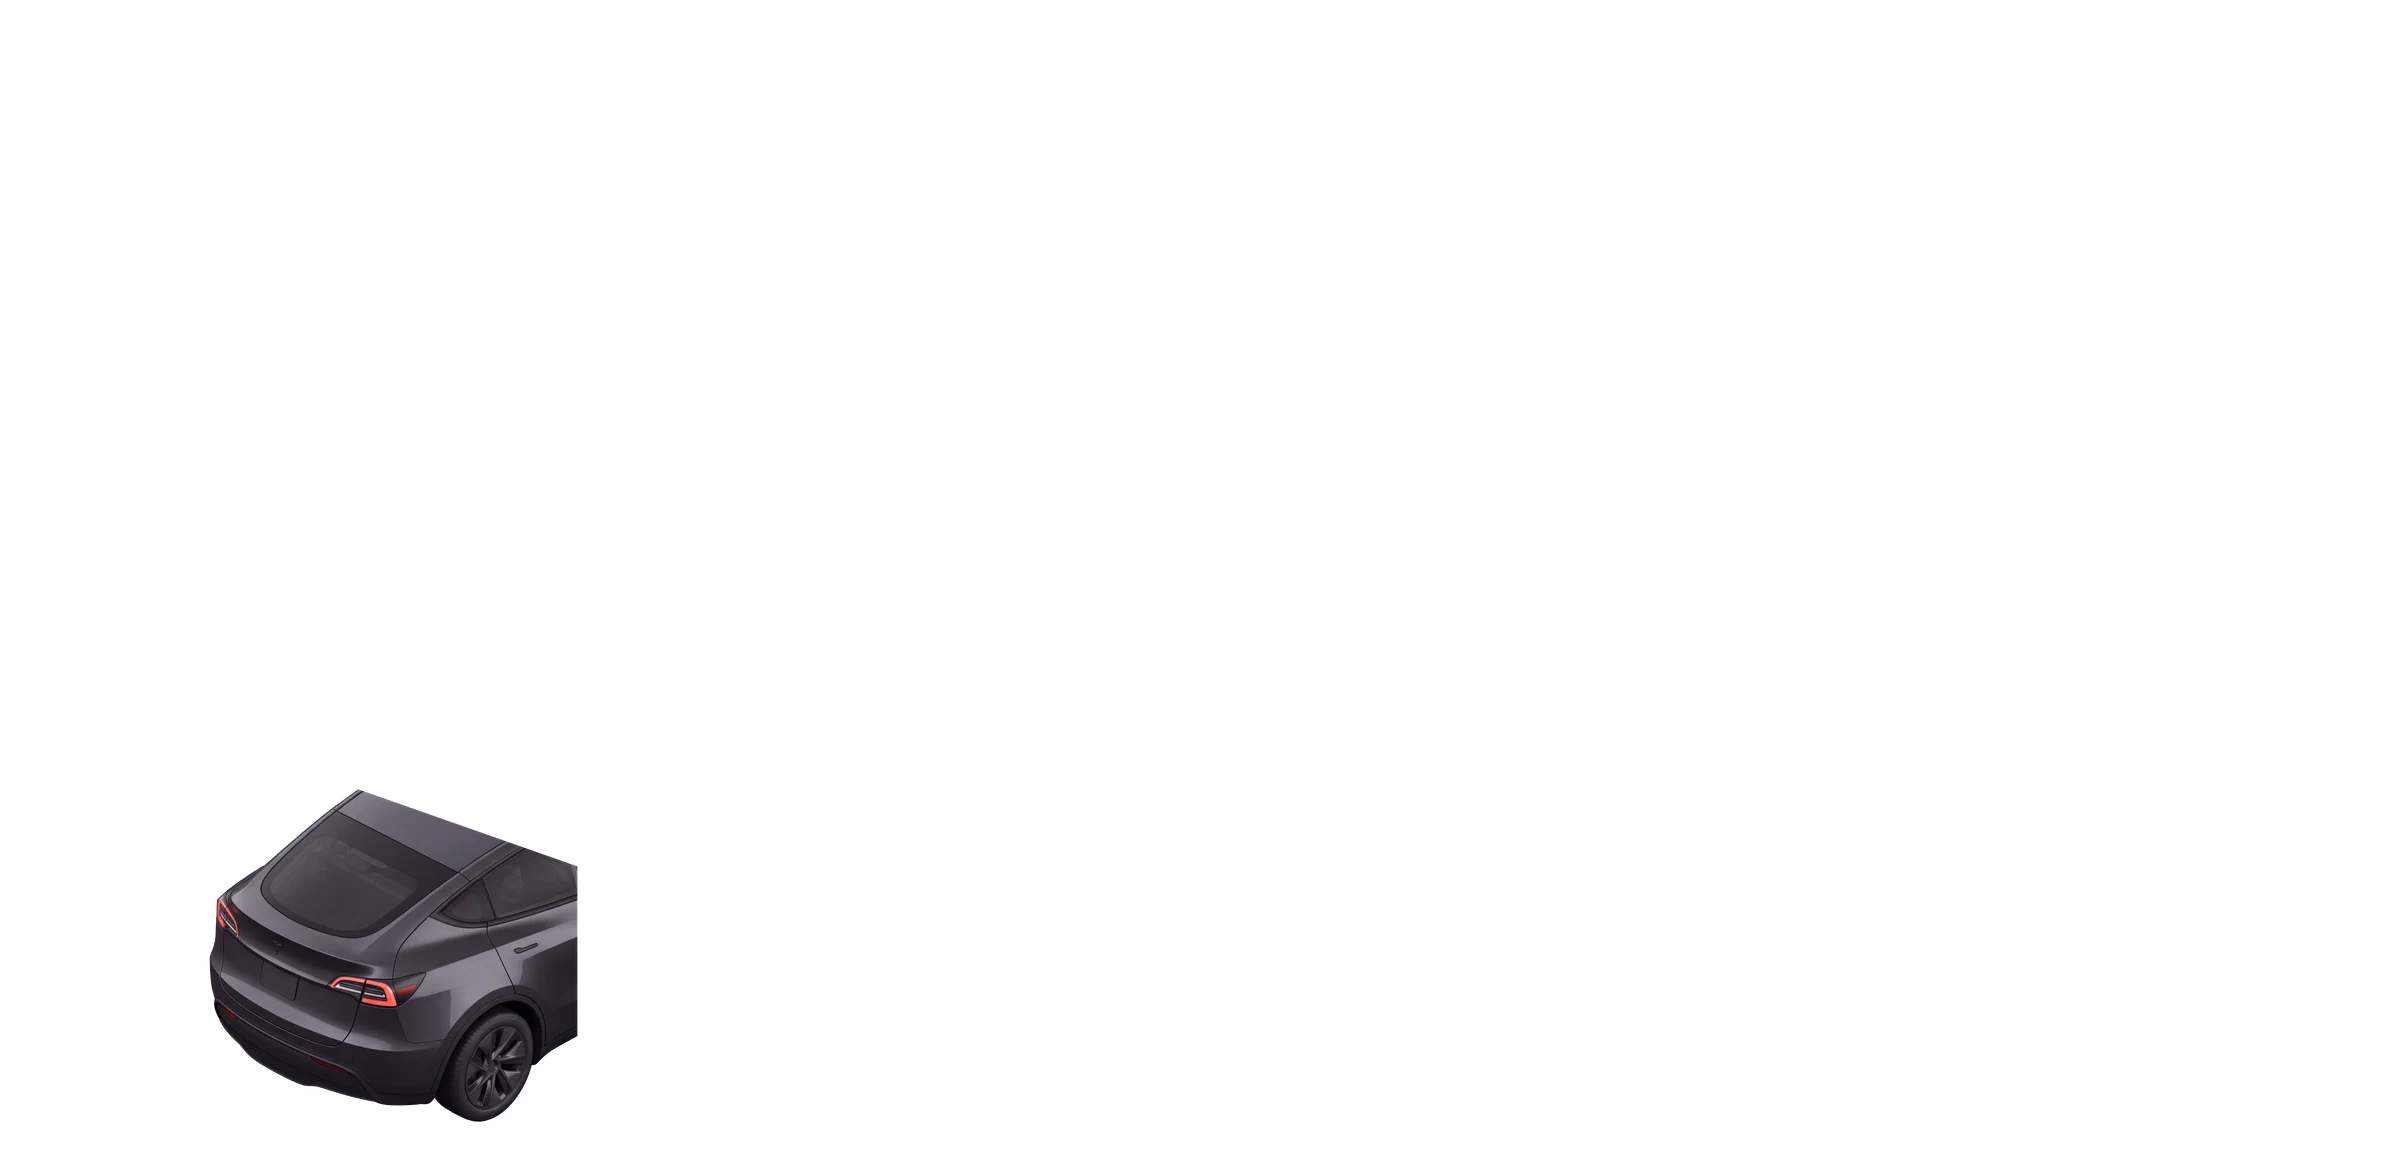
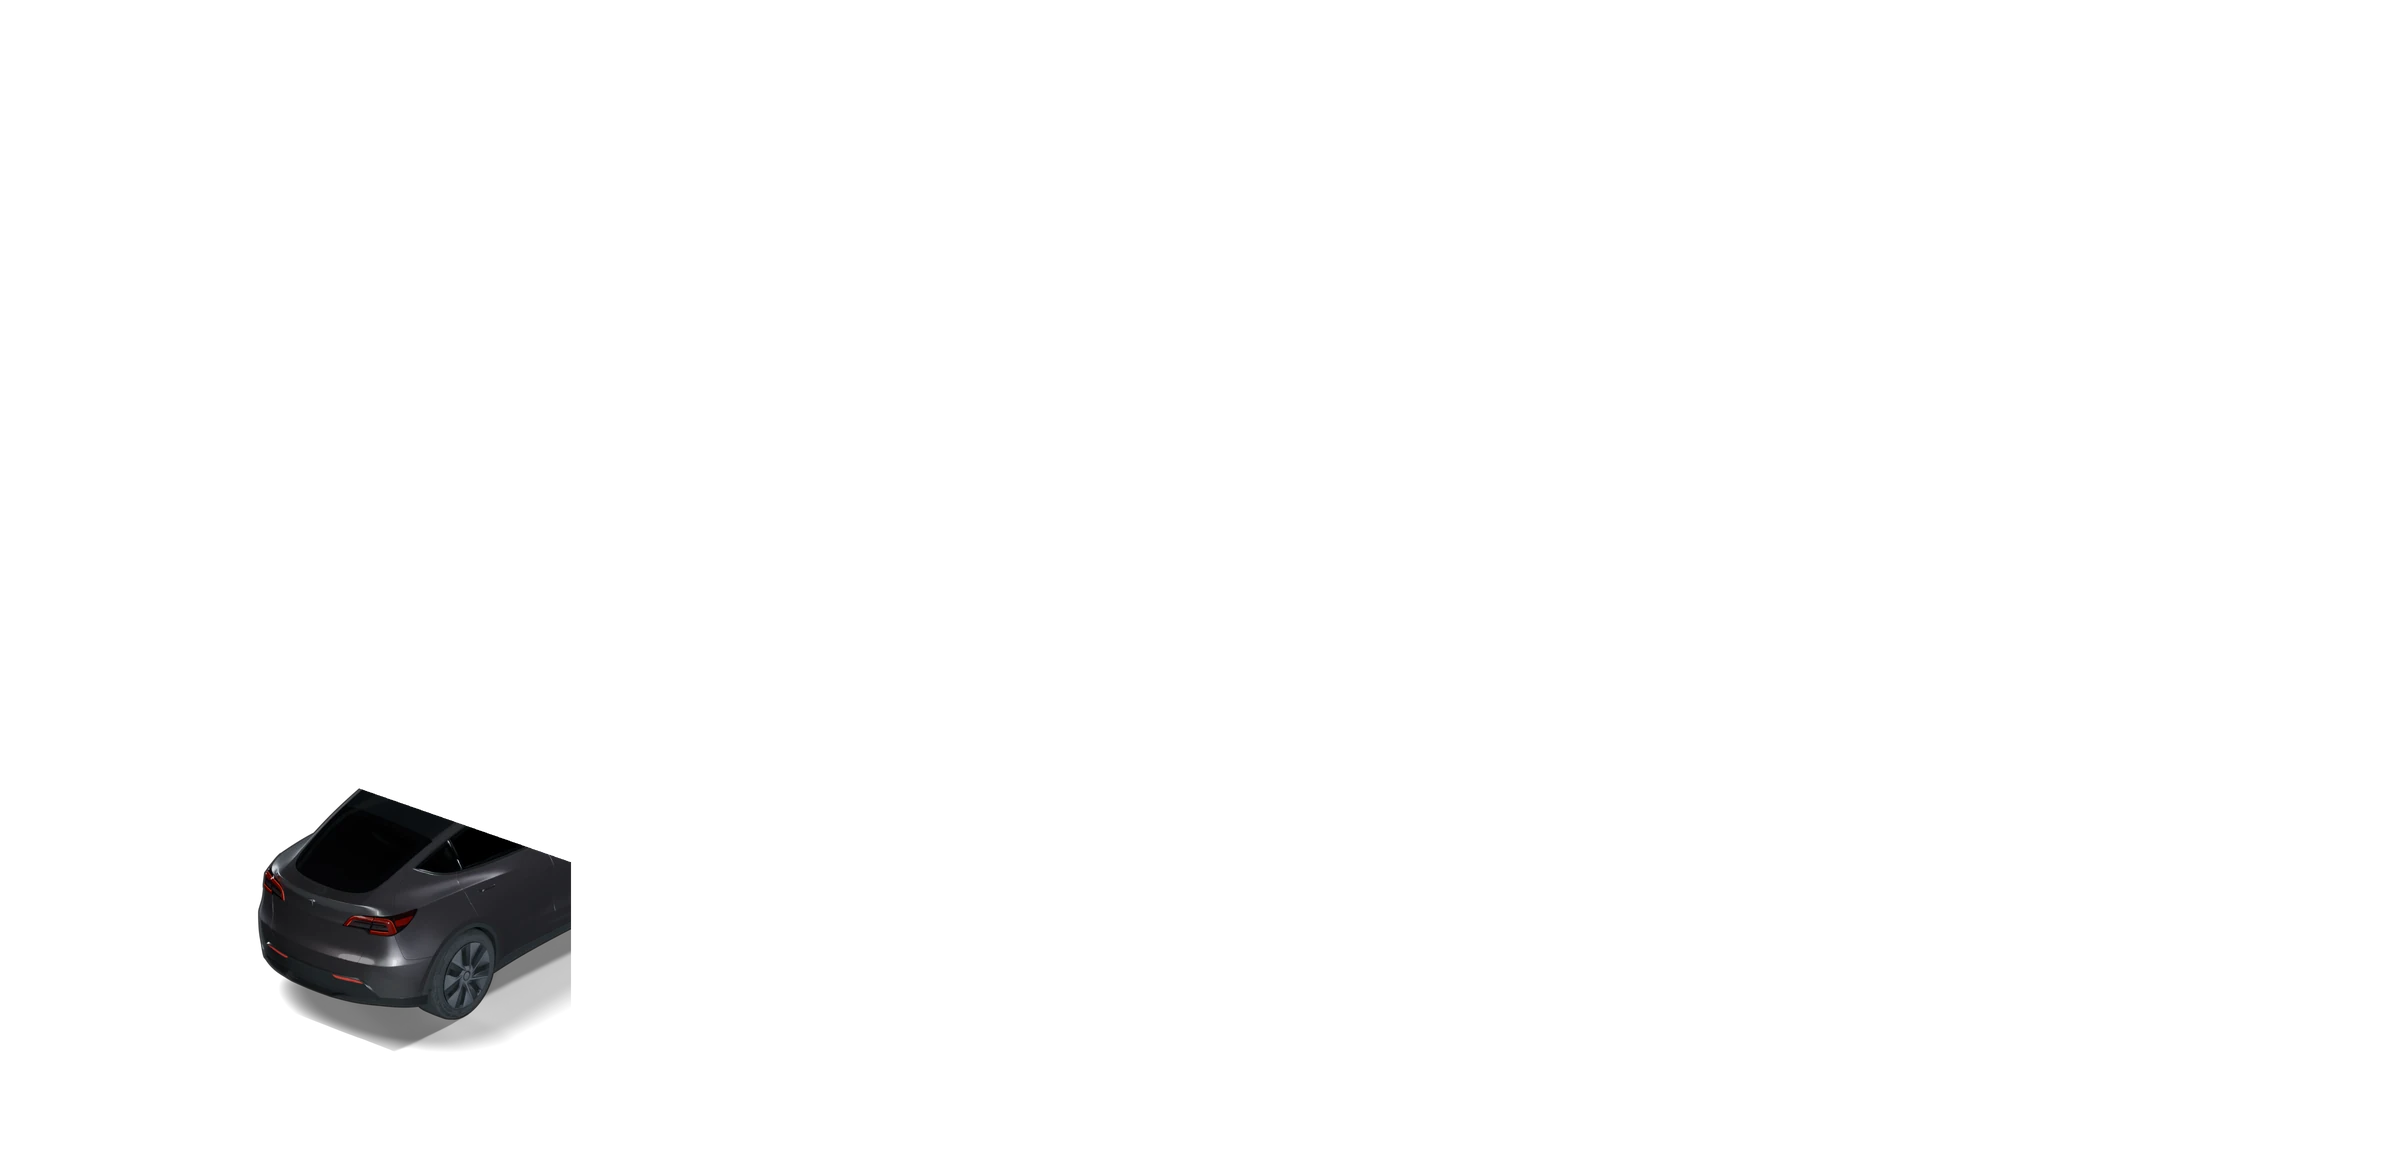
Park both cars at true scale
Tesla Star Destroyer goes back to its first render, at the house
drawing's true scale and inside the garage; at 1.35x it looked too big
in the app. R2D2 gets a new render through the same pipeline: a 2021
Model Y in Stealth Grey with 19" aero covers in the Model 3's dark grey
and a black interior. Both plugs move to the top of their new left
taillights. The README credits the Model Y mesh, which is CC BY 4.0.

Changed region(s): [[0.0625, 0.6792, 0.25, 0.9571]]

diff --git a/components/scene/live-scene.test.tsx b/components/scene/live-scene.test.tsx
@@ -341,6 +341,12 @@ describe("charging", () => {
     expect(new Set([modelY, model3, starDestroyer].map(({ plug }) => plug[1].join()))).toHaveProperty("size", 3);
   });
 
+  test("R2D2's and Tesla Star Destroyer's plugs sit on top of the left taillight in their renders", () => {
+    // Measured on the renders, in render units; the stage adds 80 down.
+    expect(CAR_CABLES.modelY.plug[1]).toEqual([178.5, 580.7 + 80]);
+    expect(CAR_CABLES.starDestroyer.plug[1]).toEqual([178.3, 590.7 + 80]);
+  });
+
   test("a car without its own image has no cable to flow along", () => {
     const flow = renderScene(charging("Tesla Model Z")).querySelector<HTMLElement>('[data-link="solar-car"]')!;
 

diff --git a/components/scene/layout.ts b/components/scene/layout.ts
@@ -78,9 +78,9 @@ const plugged = ([px, py]: Point) => {
   return { path: curve([WALL_CONNECTOR, [126, 590], [hx - 16, hy + 14], [hx, hy]]), plug: [at(hx, hy), at(px, py)] };
 };
 export const CAR_CABLES = {
-  modelY: plugged([148.5, 596.5]),
+  modelY: plugged([178.5, 580.7]),
   model3: plugged([153, 612]),
-  starDestroyer: plugged([152.3, 619.9]),
+  starDestroyer: plugged([178.3, 590.7]),
 };
 
 // The Powerwall's charge bar at 100%, on the lower piece of its dark side face:

diff --git a/openspec/changes/true-scale-cars/design.md b/openspec/changes/true-scale-cars/design.md
@@ -1,0 +1,27 @@
+# Design
+
+## Context
+
+Car layers are 2400 x 1166 crops of the house's 4800 x 3584 frame (halved, from y = 622). Each car's cable is `plugged([x, y])` in `components/scene/layout.ts`, the plug at the top of the car's left taillight in render units (webp px / 1.5). The renders are made outside the repo, in `Tesla App Assets/model3-render/` and `Tesla App Assets/modely-render/`: Blender with an orthographic camera at the house's angles, then a composite into the garage.
+
+## Goals / Non-Goals
+
+**Goals:**
+- Both current cars at the house drawing's true scale (240 px/m), parked the same way, rear-right ground corner at house (789, 2741), clipped to the door opening.
+- R2D2 in its real configuration: Stealth Grey, 19" Gemini aero covers in the Model 3's dark grey, black interior.
+
+**Non-Goals:**
+- Re-rendering Tesla T.I.E. Fighter's `model-3.webp`.
+- Credit anywhere on the site.
+
+## Decisions
+
+- **True scale over matching the old images.** The archived `add-star-destroyer` fitted the Star Destroyer to the old Model 3 (1.35x); seen in the app it reads too big. True scale keeps the two current cars consistent with each other and the house; the old Model 3 is the odd one out, only in replay.
+- **One pipeline for both cars.** The Model Y uses the Model 3's camera, angle check, lighting, paint (solved to Tesla's Stealth Grey), shadow and composite, so the two read as one set. Its own parts: a CC BY 4.0 mesh ("2021 Tesla Model Y" by tonielpro520 on Sketchfab) whose matte materials are replaced; Gemini covers cut from Tesla's Model Y render and darkened channel by channel to the Model 3 cover's grey; its near-black tyre map stretched into a bump.
+- **Plug points measured on the renders:** Star Destroyer `[178.3, 590.7]` (the first render's), R2D2 `[178.5, 580.7]` (higher, for the taller tail). The cable keeps the shared Wall Connector start.
+- **Credit in the README,** which the CC BY licence accepts as a reasonable place, saying the mesh was modified.
+
+## Risks / Trade-offs
+
+- [The old Model 3 image is now larger than the current cars] → Seen only in replay of T.I.E. Fighter's days and for unnamed cars; acceptable.
+- [The cable's curve was tuned for plugs near `[150, 600]`; both plugs are about 28 units right] → Check it on the page; the Star Destroyer's was checked at this point in `add-star-destroyer`'s first render.

diff --git a/openspec/changes/true-scale-cars/proposal.md b/openspec/changes/true-scale-cars/proposal.md
@@ -1,0 +1,27 @@
+# Proposal
+
+## Why
+
+Seen in the app, the Star Destroyer at 1.35x scale (fitted to the old Model 3 image) looks too big; the owner prefers its first render, at the house drawing's true scale, parked inside the garage. R2D2's image is an older, drawn-larger render with the wrong wheels; it gets the same treatment as the Star Destroyer, so both current cars match each other and the house.
+
+## What Changes
+
+- **Tesla Star Destroyer at true scale:** `public/scene/star-destroyer.webp` re-rendered at 240 px/m with its rear-right corner at the first render's place, inside the door; its plug moves back to `[178.3, 590.7]`.
+- **New R2D2 image:** `public/scene/model-y.webp` replaced by a render of a 2021 Model Y in Stealth Grey with 19" Gemini aero covers and a black interior, through the same camera, materials, scale and placement as the Star Destroyer; its plug moves to `[178.5, 580.7]`.
+- **Credit:** a `## Credits` section in `README.md` for the Model Y mesh, which is CC BY 4.0.
+- Tesla T.I.E. Fighter keeps `model-3.webp` unchanged; it is now larger than the two current cars, which shows only in replay of its days and for cars without their own image.
+
+## Capabilities
+
+### New Capabilities
+
+### Modified Capabilities
+
+None: each registered car still has its own image and cable; only the images and plug points change.
+
+## Impact
+
+- `public/scene/star-destroyer.webp`, `public/scene/model-y.webp` (replaced)
+- `components/scene/layout.ts` (two plug points)
+- `README.md` (credits)
+- Render sources outside the repo: `Tesla App Assets/model3-render/` back to true scale, `Tesla App Assets/modely-render/` (new)

diff --git a/openspec/changes/true-scale-cars/tasks.md b/openspec/changes/true-scale-cars/tasks.md
@@ -1,0 +1,17 @@
+# Tasks
+
+## 1. Images
+
+- [x] 1.1 Put `Tesla App Assets/model3-render/` back to true scale (`render_car.py`: 1600 x 1100 at 240 px/m; `composite.py`: corner (789, 2741), the door polygon with its bottom edge, everything clipped to the house), re-render and composite, and check the result matches the first render (angles in tolerance, plug at `[178.3, 590.7]`)
+- [x] 1.2 Copy the Star Destroyer's `star-destroyer.webp` and the Model Y's `model-y.webp` into `public/scene/`
+
+## 2. Plugs and credit
+
+- [x] 2.1 Write failing tests in `live-scene.test.tsx`: R2D2's plug ends at `[178.5, 580.7]` and the Star Destroyer's at `[178.3, 590.7]` (render units, before the stage offset)
+- [x] 2.2 Update the two plug points in `components/scene/layout.ts`; run the whole suite
+- [x] 2.3 Add a `## Credits` section to `README.md` for the Model Y mesh: title, author, Sketchfab link, CC BY 4.0, and that it was modified
+
+## 3. Check
+
+- [x] 3.1 Look at both cars plugged in on the page (a branch container on onyx or a composite of the scene's layers): each sits inside the garage, and its cable reaches the top of its left taillight without crossing the body
+- [x] 3.2 Run the ponytail review on the diff in a fresh subagent and report its findings

diff --git a/README.md b/README.md
@@ -179,3 +179,7 @@ It needs PostgreSQL 18's binaries. On the Mac, `brew install postgresql@18` (the
 ```sh
 PG_BIN=/usr/lib/postgresql/18/bin yarn vitest run
 ```
+
+## Credits
+
+R2D2's render in `public/scene/model-y.webp` is made from ["2021 Tesla Model Y"](https://sketchfab.com/3d-models/59e2ead369984b1a85c800ff6cf6789d) by tonielpro520, licensed under [CC BY 4.0](https://creativecommons.org/licenses/by/4.0/). The model was modified: new materials and paint, 19" aero covers in place of its wheels, and its own lighting and camera.
